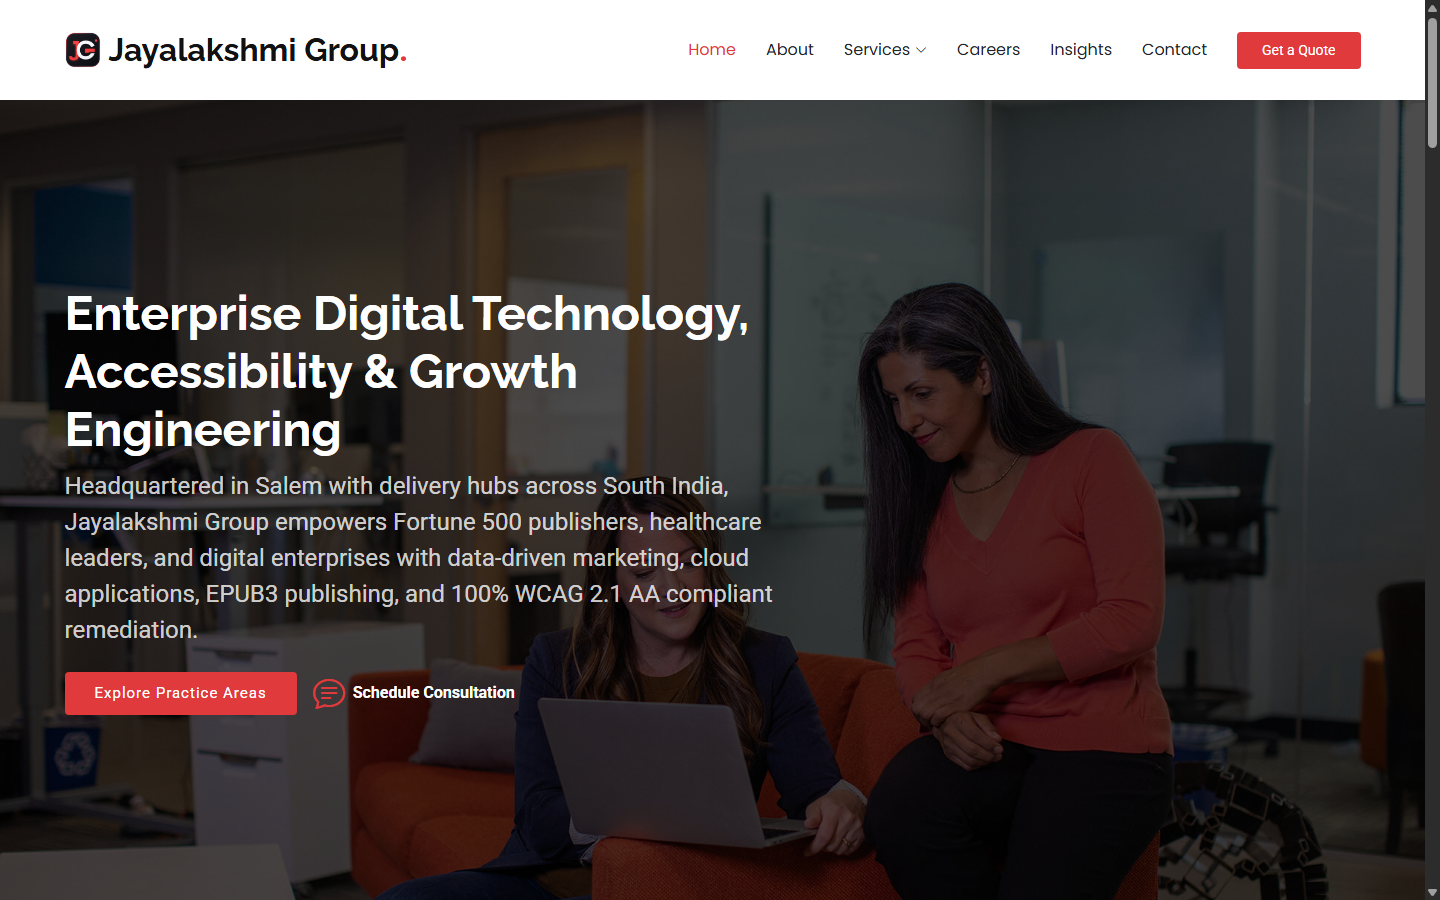
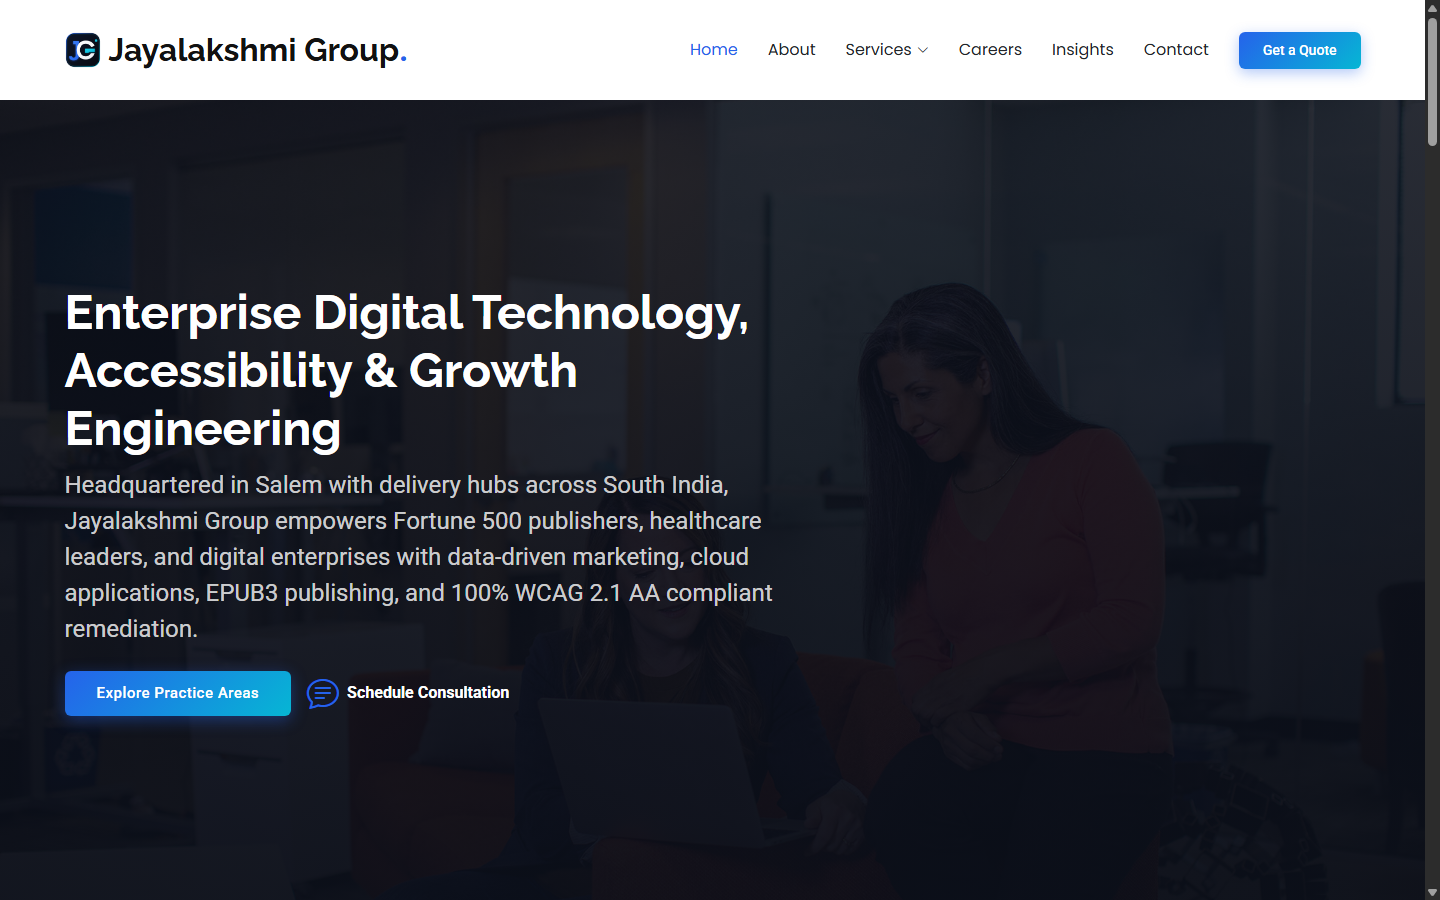
feat: update Jayalakshmi Group theme colors to Electric Sapphire & Cyan, and update showcase screenshot

diff --git a/lib/data/projects.ts b/lib/data/projects.ts
@@ -503,7 +503,7 @@ export const projects: Project[] = [
     tech: ["Bootstrap 5.3", "Node.js", "JavaScript ES6+", "HTML5 Semantic", "PureCounter", "Swiper", "WCAG 2.1 AA", "REST APIs"],
     featured: true,
     theme: "Enterprise Technology Conglomerate",
-    colors: { primary: "#111111", secondary: "#e03a3c", accent: "#ffffff" },
+    colors: { primary: "#0b0f19", secondary: "#2563eb", accent: "#06b6d4" },
     heroImage: "/screenshots/jayalakshmi-groups.png",
     heroAnimation: "glassmorphism",
     features: [
